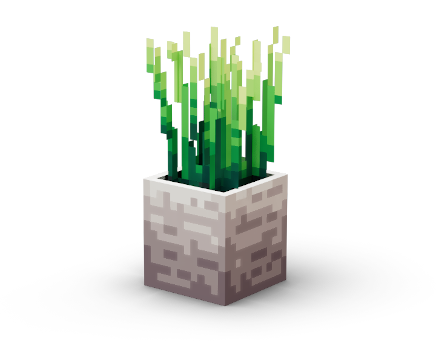
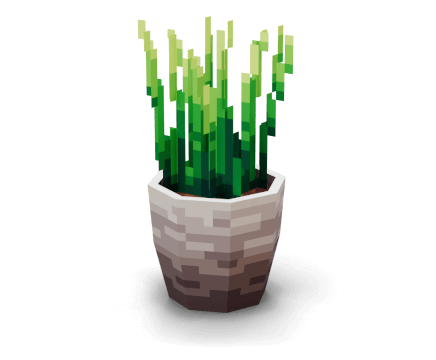
Add hardware requirements Update modeling section to mention low-poly Update flower pot model Update links

Changed region(s): [[0.2683, 0.0306, 0.7752, 0.9472]]

diff --git a/pages/downloads.vue b/pages/downloads.vue
@@ -5,7 +5,7 @@
 			<h1>Downloads</h1>
 			
 			<h3>Thank you for using Blockbench!</h3>
-			<p>Choose the installation method for your system. Once installed, you will receive updates within the program.</p>
+			<p>Choose the installation method for your system. Once installed, you will receive the latest updates automatically.</p>
 			<p>If you need help getting started, check out the <nuxt-link to="/quickstart">Quickstart Guide</nuxt-link>.</p>
 
 			<p id="update_title"><b>{{ type }}: </b><span>{{ name }}</span></p>
@@ -73,6 +73,33 @@
 				</section>
 			</div>
 
+			<h3>Hardware Requirements</h3>
+			<div class="column_left">
+				<h4>Minimum</h4>
+				<ul>
+					<li>
+						Desktop App
+						<ul>
+							<li><b>Windows</b> 7 or newer</li>
+							<li><b>macOS</b> 10.10 Yosemite or newer</li>
+							<li><b>Ubuntu</b> 12.04, Debian 8, Fedora 21 or newer</li>
+							<li>1+ GB of empty storage space</li>
+						</ul>
+					</li>
+					<li>1 GB of RAM</li>
+					<li>1280 x 720 display</li>
+				</ul>
+			</div>
+			<div class="column_right">
+				<h4>Recommended</h4>
+				<ul>
+					<li>Windows, macOS, or Linux computer</li>
+					<li>Mouse and keyboard</li>
+					<li>8 GB of RAM</li>
+					<li>1920 x 1080 display</li>
+					<li>10 GB of empty storage space</li>
+				</ul>
+			</div>
 		</div>
 	</div>
 </template>
@@ -168,6 +195,11 @@ export default {
 	a.blockbench_download > * {
 		cursor: inherit;
 	}
+	.column_left,
+	.column_right {
+		float: left;
+		width: 50%;
+	}
 	@media only screen and (max-width: 600px) {
 		#install_options {
 			display: flex;
@@ -175,6 +207,11 @@ export default {
 		}
 		#install_os_section {
 			flex-direction: column;
+		}
+		.column_left,
+		.column_right {
+			float: none;
+			width: auto;
 		}
 	}
 </style>

diff --git a/pages/quickstart.vue b/pages/quickstart.vue
@@ -20,7 +20,7 @@
 					<ul>
 						<li>Rotations are limited to 22.5 degree steps and one axis per element</li>
 						<li>The model is limited to a size of 3 by 3 by 3 blocks. Display settings can make item models larger though</li>
-						<li>This format does not support animations in vanilla Minecraft. If you are creating a mod, you can use <a href="https://geckolib.com/en/latest/">GeckoLib</a> to animate models. If not, the only way to animate is to switch out the model using commands or animated textures.</li>
+						<li>This format does not support animations in vanilla Minecraft. If you are creating a mod, you can use <a href="https://github.com/bernie-g/geckolib/wiki">GeckoLib</a> to animate models. If not, the only way to animate is to switch out the model using commands or animated textures.</li>
 					</ul>
 
 					<h3>Tutorials</h3>

diff --git a/pages/index.vue b/pages/index.vue
@@ -71,9 +71,9 @@
 		<section class="features">
 			<content class="content split">
 				<div class="text_body">
-					<h3>Model Editing</h3>
-					<p>Blockbench puts all the tools at your disposal to make creating boxy models as easy as possible.</p>
-					<p>Simply resize, rotate and arrange cuboid shapes to form your own model.</p>
+					<h3>Low-poly Modeling</h3>
+					<p>Blockbench puts all the tools at your disposal to make the creation process of low-poly models as easy as possible.</p>
+					<p>Use cuboids to get that Minecraft aesthetic, or create complex low-poly shapes using the mesh modeling tools!</p>
 				</div>
 				<div>
 					<img src="~assets/features/flower_pot.png" alt="Modeling Illustration" />

diff --git a/assets/css/main.css b/assets/css/main.css
@@ -139,6 +139,9 @@ td, th {
 	line-height: 24px;
 	margin-bottom: 30px;
 }
+.content li ul, .content li ol {
+	margin-bottom: 4px;
+}
 .content p {
 	line-height: 24px;
 	margin-bottom: 15px;

diff --git a/content/blockbench/formats.md b/content/blockbench/formats.md
@@ -65,7 +65,7 @@ Sound/Particle/Custom Keyframes| |x|x| | | |x|x
 ### Notes
 - ¹ Experiemental feature
 - ² Only exports item display settings json (to control how items look in guis and hand)
-- ³ Use [GeckoLib](https://geckolib.com/en/latest/) to run Blockbench animations in Minecraft mods
+- ³ Use [GeckoLib](https://github.com/bernie-g/geckolib/wiki) to run Blockbench animations in Minecraft mods
 - ⁴ Optifine entities support expression based animations. [More info](https://github.com/sp614x/optifine/blob/master/OptiFineDoc/doc/cem_animation.txt)
 - ⁵ Models that don't support unlimited cube sizes are restricted to only integers for cube sizes i.e. 0 1 2 etc.
 
